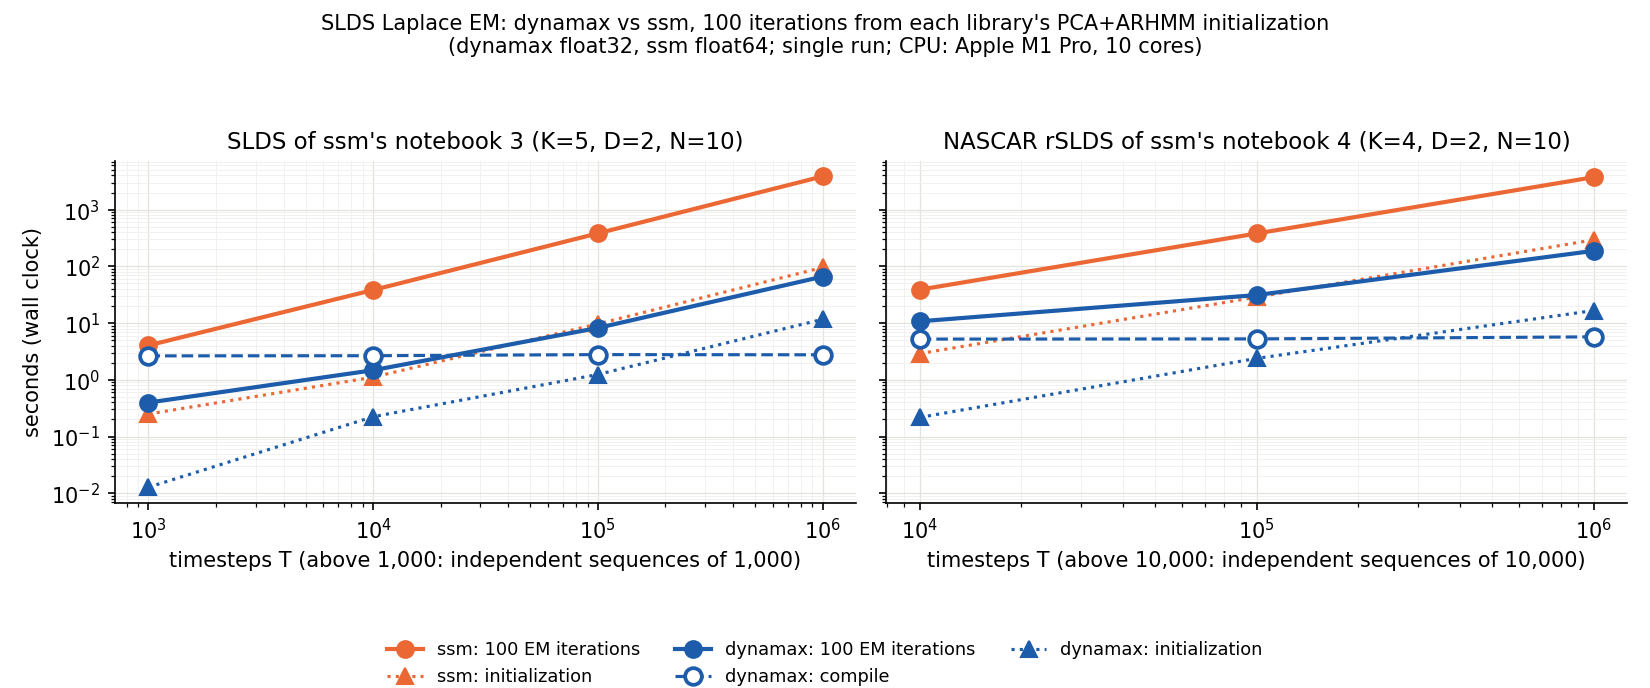
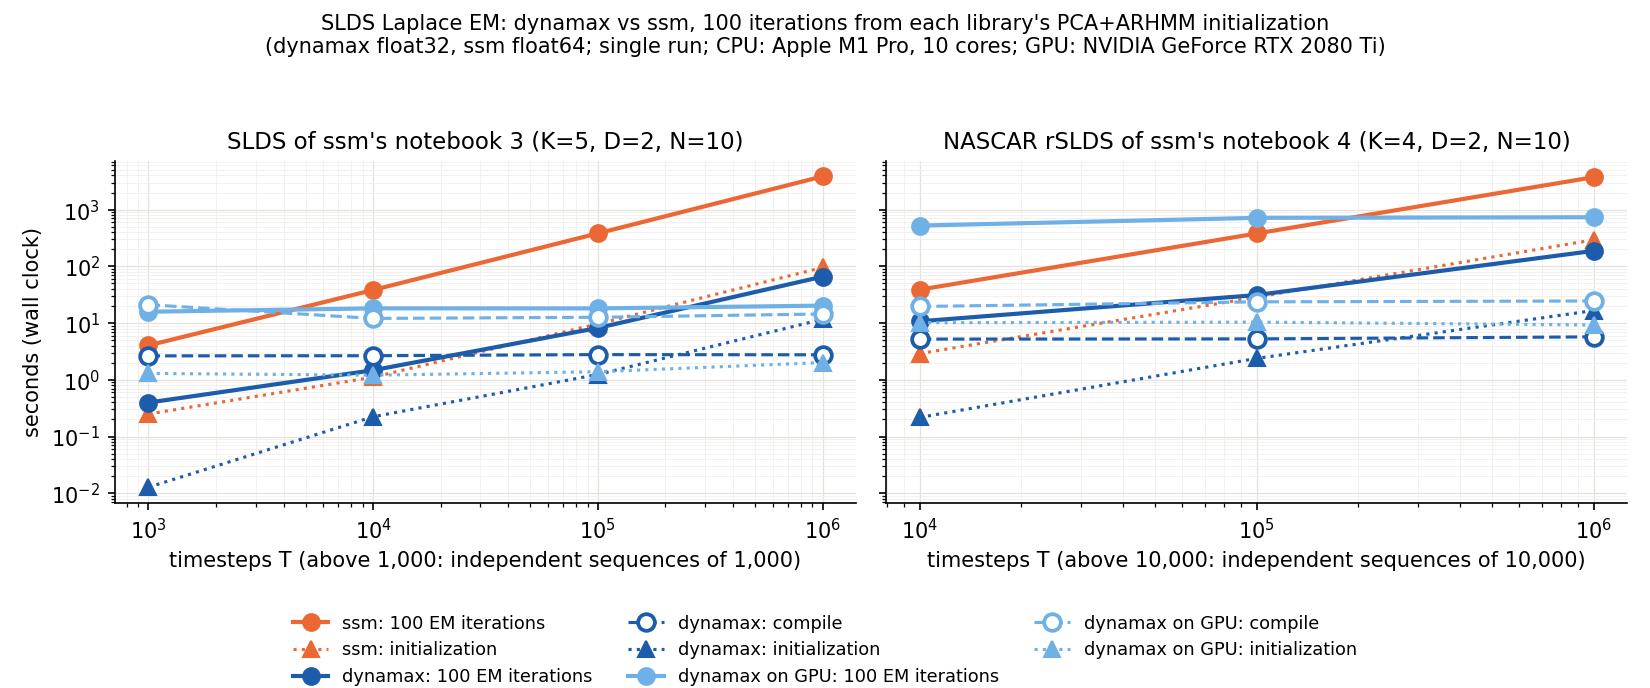
Add dynamax's benchmark rows on a GPU
Problem: the benchmark only ran dynamax on a CPU.

Solution: gpu_dynamax.jsonl, from bench_dynamax.py --device gpu on an
NVIDIA GeForce RTX 2080 Ti, and the two speed plots redrawn with
dynamax on the GPU as a third series. The README gains the line that
installs JAX's GPU support.

On the SLDS the GPU's total time stays near 35 s from 1,000 to
1,000,000 timesteps, so it is slower than the CPU up to 100,000
timesteps and faster at 1,000,000, where it is 107x faster than ssm.
On the rSLDS, whose sequences are ten times longer, it is slower than
the CPU at every size. The SLDS recovery scores are identical to the
CPU's.

diff --git a/benchmarks/slds_vs_ssm/README.md b/benchmarks/slds_vs_ssm/README.md
@@ -8,6 +8,7 @@ conda create -n dyna_dev_ssm python=3.10 -y && conda activate dyna_dev_ssm
 pip install -e '.[dev]'
 pip install cython
 pip install --no-build-isolation "git+https://github.com/lindermanlab/ssm.git@eb6c8aa"
+pip install "jax[cuda12]"                 # optional: GPU support, for bench_dynamax.py --device gpu
 
 python benchmarks/slds_vs_ssm/make_data.py                    # samples the seven datasets with ssm
 python benchmarks/slds_vs_ssm/bench_ssm.py                    # about 4.5 hours; writes cpu_ssm.jsonl
